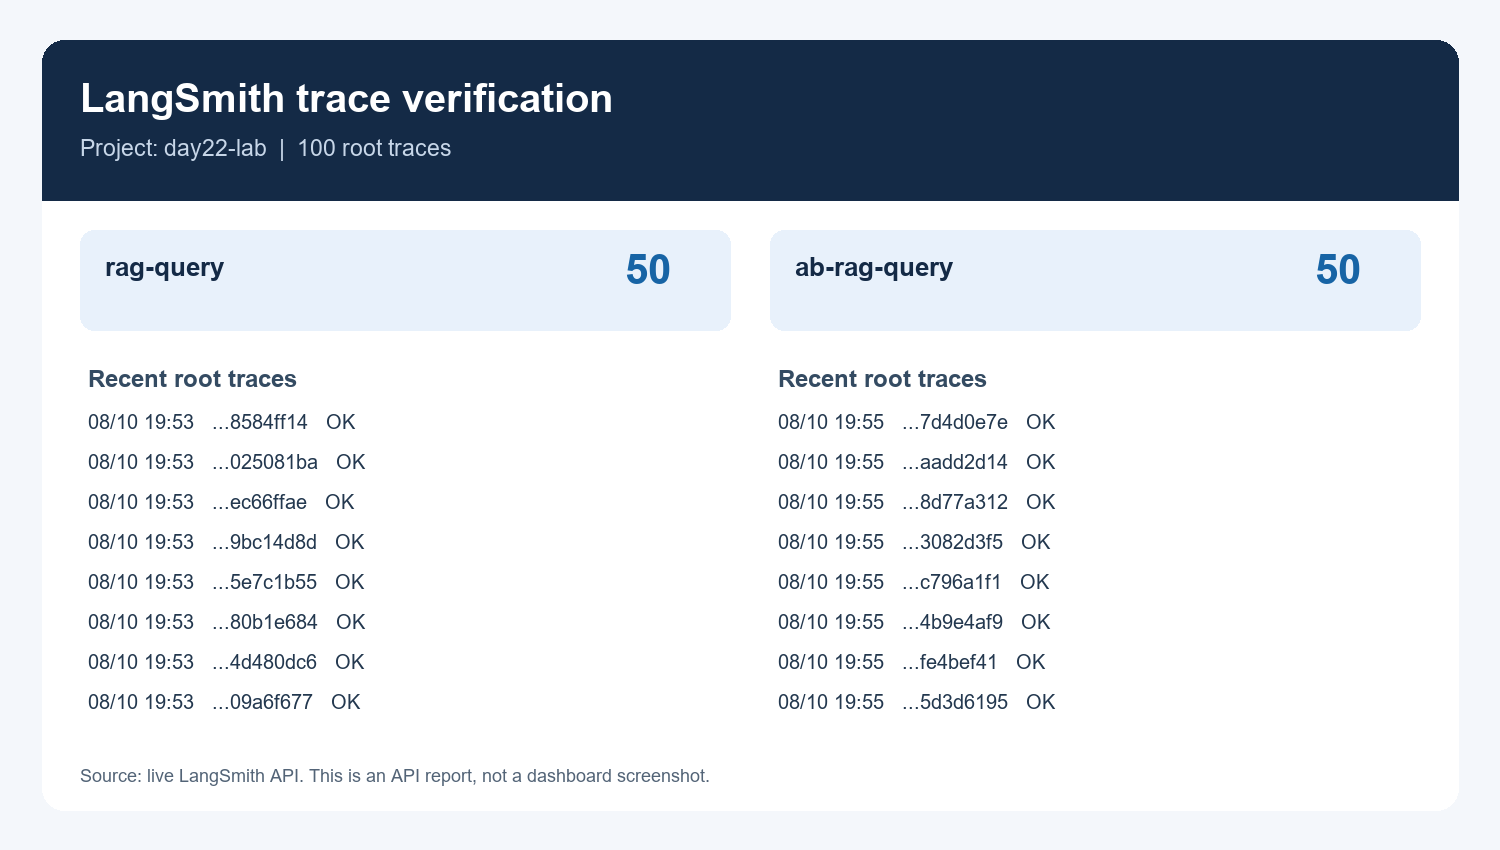
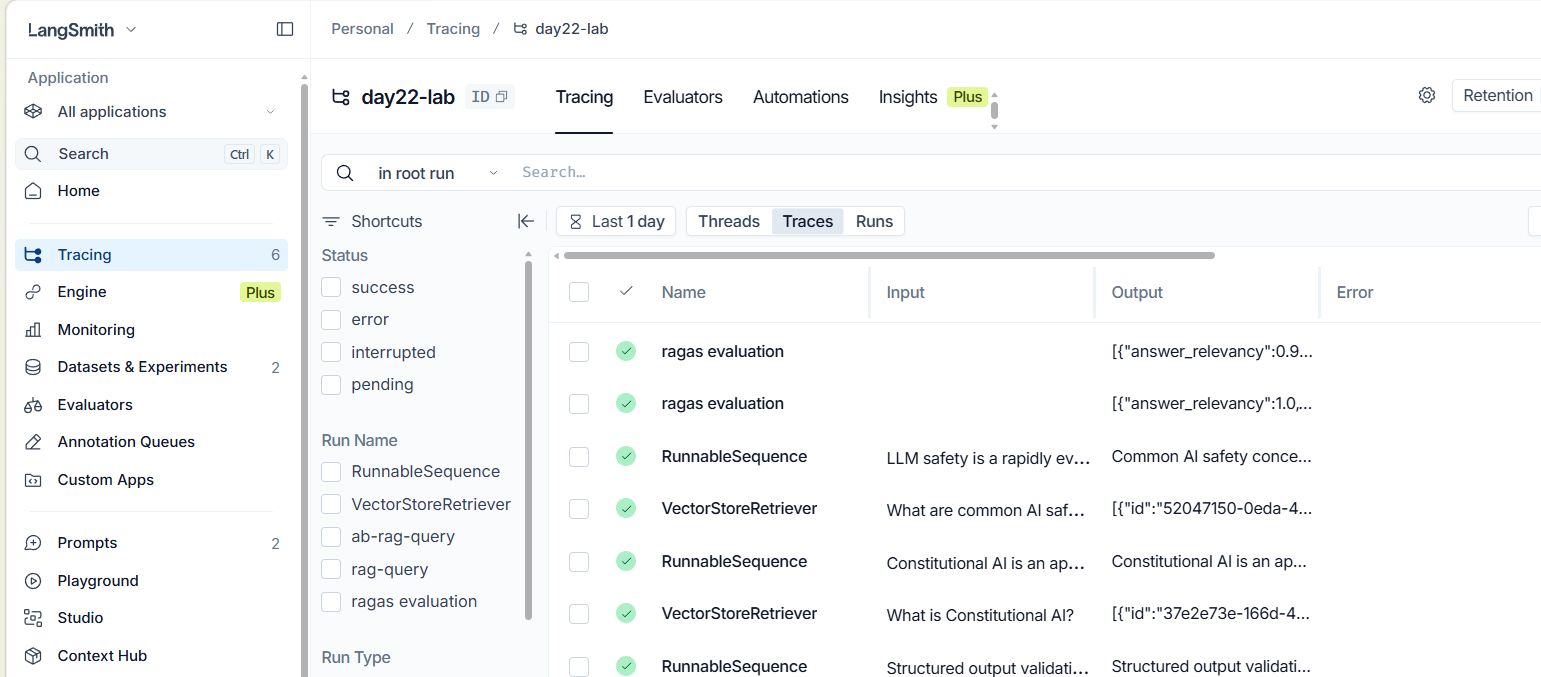
Capture LangSmith traces in Edge

diff --git a/evidence/README.md b/evidence/README.md
@@ -2,7 +2,7 @@
 
 LangSmith project: [day22-lab](https://smith.langchain.com/o/c184d0e3-d29d-4c6c-832d-c1ca4b2ce5bd/projects/p/f4ac32ab-1725-4707-82f6-3af9ea710422). The LangSmith API confirmed 50 successful root `rag-query` traces and 50 successful root `ab-rag-query` traces. A sample `rag-query` trace contains the input question, retriever output, prompt, model run, and answer. Prompt Hub contains `tran-dai-nhan-rag-prompt-v1` and `tran-dai-nhan-rag-prompt-v2`; both were pulled successfully for A/B routing. The 409 messages in the routing log mean the prompt content was already on Hub, so there was no new commit to create.
 
-`03_ragas_scores.png` is a real terminal capture displaying the values from `data/ragas_report.json`, which was saved by the completed evaluation run. `01_langsmith_traces.png` and `02_prompt_hub.png` are currently visual reports made from actual LangSmith API responses, **not screenshots of the LangSmith website**. They should be replaced with UI captures before grading if the course requires screenshots. The original score JSON and console logs remain unedited evidence of the executions.
+`01_langsmith_traces.png` is a capture of the `day22-lab` tracing page in Edge. `03_ragas_scores.png` is a real terminal capture displaying the values from `data/ragas_report.json`, which was saved by the completed evaluation run. `02_prompt_hub.png` is currently a visual report made from actual LangSmith API responses, **not a screenshot of the LangSmith website**. It should be replaced with a UI capture before grading if the course requires screenshots. The original score JSON and console logs remain unedited evidence of the executions.
 
 | Metric | V1 | V2 |
 |---|---:|---:|

diff --git a/README.md b/README.md
@@ -10,7 +10,7 @@
 
 ## Kết quả bài làm — Tran Dai Nhan
 
-Đã hoàn thành bốn checkpoint: 50 `rag-query` traces và 50 `ab-rag-query` traces trên [LangSmith project](https://smith.langchain.com/o/c184d0e3-d29d-4c6c-832d-c1ca4b2ce5bd/projects/p/f4ac32ab-1725-4707-82f6-3af9ea710422), hai prompt riêng trên Hub, RAGAS cho 50 câu hỏi ở mỗi phiên bản, và demo Guardrails PII/JSON. Faithfulness của V1/V2 là **0.9570 / 0.9162**. Xem [evidence và phân tích kết quả](evidence/README.md); ảnh LangSmith hiện là báo cáo từ API, được ghi rõ trong tài liệu evidence.
+Đã hoàn thành bốn checkpoint: 50 `rag-query` traces và 50 `ab-rag-query` traces trên [LangSmith project](https://smith.langchain.com/o/c184d0e3-d29d-4c6c-832d-c1ca4b2ce5bd/projects/p/f4ac32ab-1725-4707-82f6-3af9ea710422), hai prompt riêng trên Hub, RAGAS cho 50 câu hỏi ở mỗi phiên bản, và demo Guardrails PII/JSON. Faithfulness của V1/V2 là **0.9570 / 0.9162**. Xem [evidence và phân tích kết quả](evidence/README.md) để biết nguồn của từng ảnh.
 
 # Chào mừng các bạn đến với Day 22: LangSmith + Prompt Versioning
 
